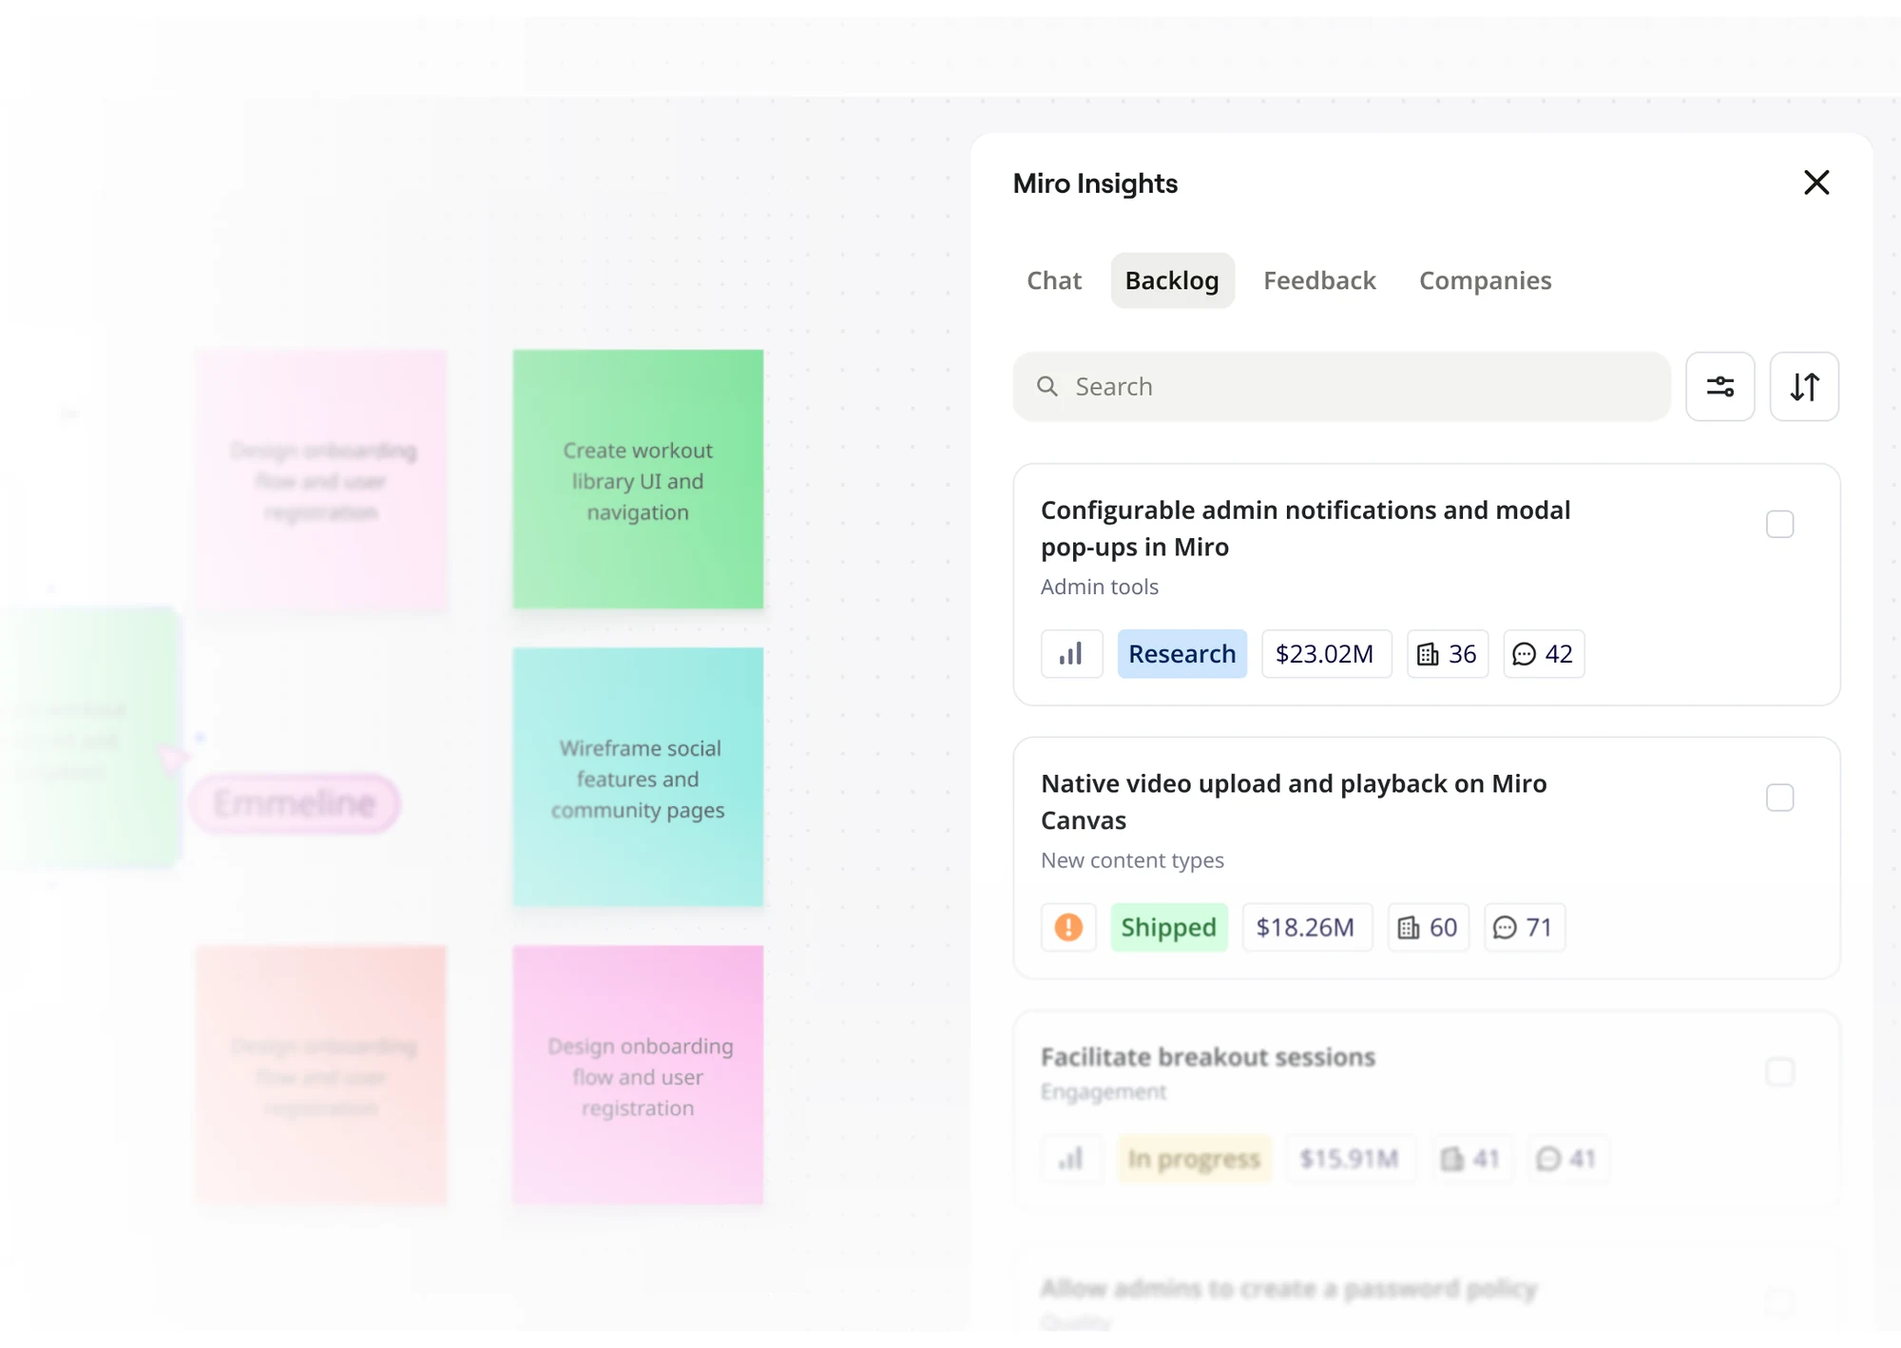
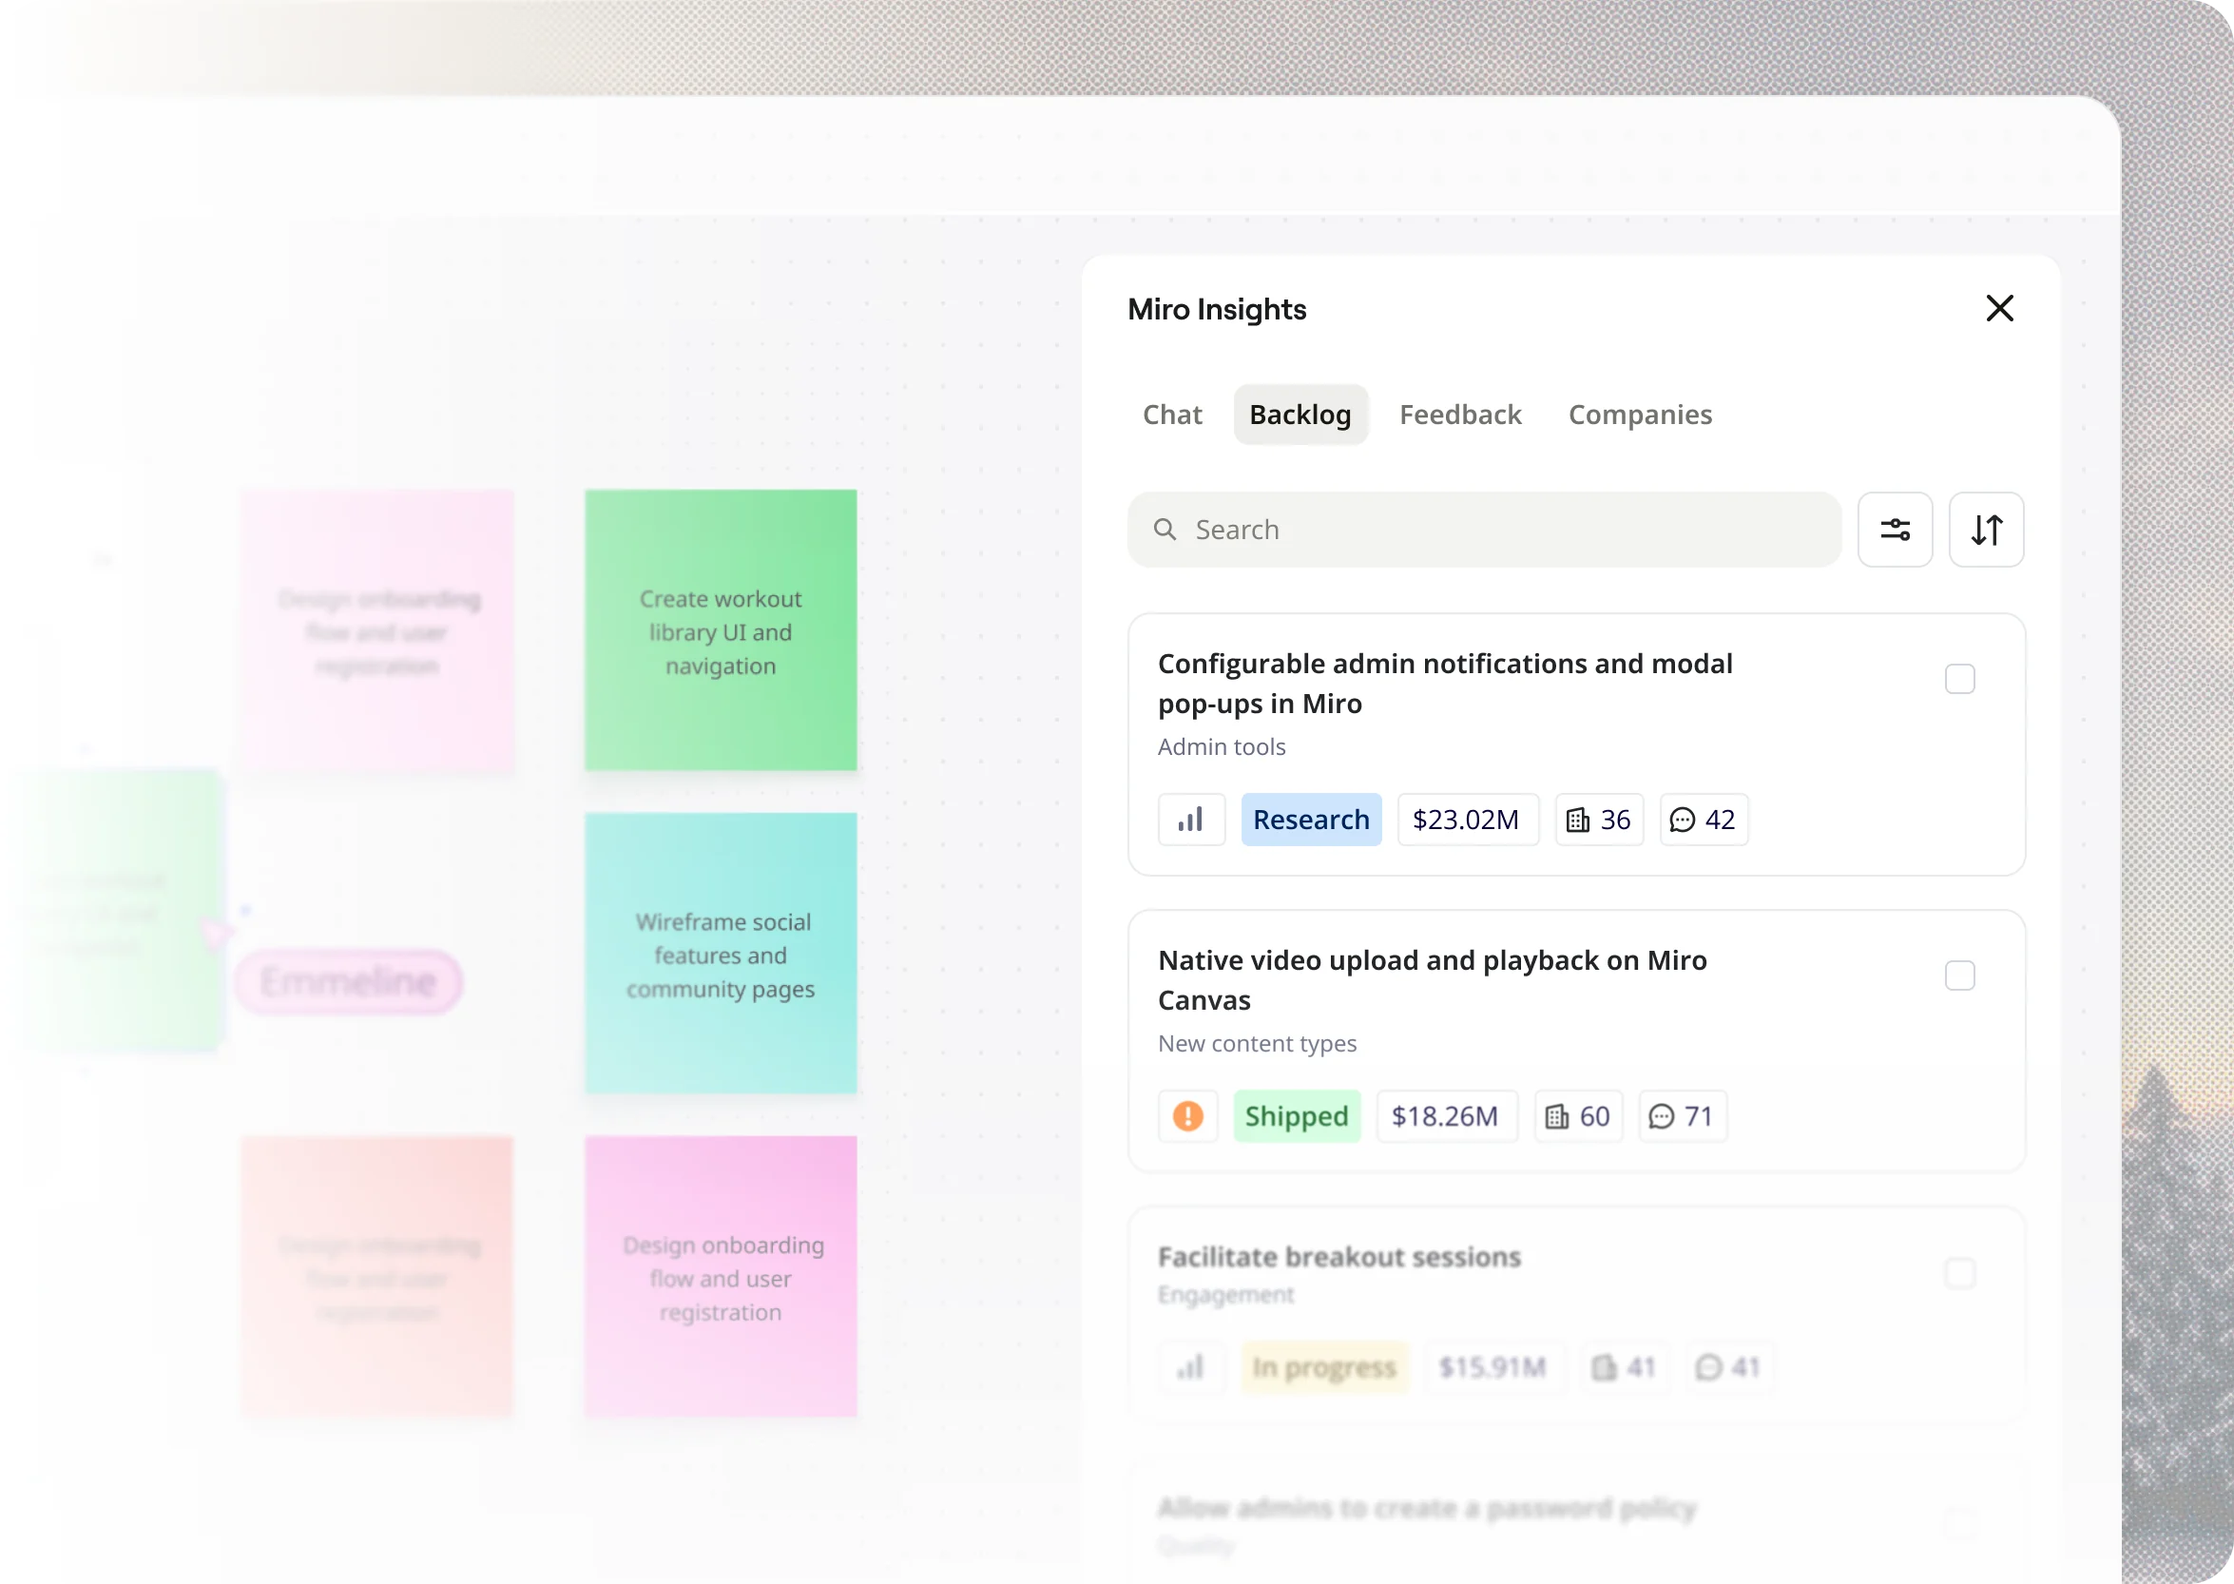
Larger project media on wide screens; synced back button and breadcrumb
- Project images and videos grow 10% from 1920px and 30% from 2000px.
- Breadcrumb (logo and title) arrives and leaves with the back button;
  hidden on small screens.
- Top buttons and back button share the dropdown rows' corner shape; in
  winter they take the Next project pill's dark glass.
- Original Canvas Insights detail image (the deck keeps the old one).
- Interests heading stays put on expand; Snake hint drops the seasonal line;
  shortcuts glyph moves bottom right.

diff --git a/css/styles.css b/css/styles.css
@@ -12034,3 +12034,107 @@ html body .pc-back.pc-back--home:active {
     width: 100%;
   }
 }
+
+/* The toolbar pills and the back button take the dropdown rows' corner
+   (12px) instead of full pill rounding. */
+html body .nav-primary .nav-icon-btn.nav-label-btn,
+html body[data-page] .pc-back.pc-back--home {
+  border-radius: 12px;
+}
+
+/* The breadcrumb arrives and leaves with the back button, on the same
+   animations and timings, so the two read as one unit between pages. */
+html.page-entering body[data-page="project"] .pc-top-company {
+  animation: pcBackBlurIn 0.5s cubic-bezier(0.22, 1, 0.36, 1) both;
+}
+
+html body[data-page="project"].page-is-leaving .pc-top-company {
+  opacity: 0;
+  filter: blur(6px);
+  transition:
+    opacity 0.3s cubic-bezier(0.22, 1, 0.36, 1),
+    filter 0.3s cubic-bezier(0.22, 1, 0.36, 1);
+}
+
+@media (hover: hover) and (min-width: 769px) {
+  html.from-home body[data-page="project"] .pc-top-company {
+    animation: pcHomeSlideIn 0.6s cubic-bezier(0.22, 1, 0.36, 1) 0.06s backwards;
+  }
+
+  html body[data-page="project"].page-is-leaving.is-leaving-home .pc-top-company {
+    opacity: 0;
+    filter: none;
+    translate: -32px 0;
+    transition:
+      opacity 0.26s ease,
+      translate 0.32s cubic-bezier(0.55, 0, 0.45, 1);
+  }
+}
+
+@media (prefers-reduced-motion: reduce) {
+  html.page-entering body[data-page="project"] .pc-top-company,
+  html.from-home body[data-page="project"] .pc-top-company { animation: none; }
+}
+
+/* Winter: the top buttons (season, Contact and back) take the "Next project"
+   pill's look: dark translucent glass, a white hairline and a soft dark
+   shadow. */
+html[data-theme="dark"] body .nav-primary .nav-icon-btn.nav-label-btn,
+html[data-theme="dark"] body[data-page="project"] .nav-primary .nav-icon-btn.nav-label-btn,
+html[data-theme="dark"] body .pc-back.pc-back--home {
+  color: var(--text);
+  background: rgba(20, 20, 22, 0.78);
+  -webkit-backdrop-filter: blur(18px) saturate(1.25);
+  backdrop-filter: blur(18px) saturate(1.25);
+  box-shadow:
+    inset 0 0 0 1px rgba(255, 255, 255, 0.12),
+    0 2px 14px rgba(0, 0, 0, 0.45);
+}
+
+@media (hover: hover) {
+  html[data-theme="dark"] body .nav-primary .nav-icon-btn.nav-label-btn:hover,
+  html[data-theme="dark"] body[data-page="project"] .nav-primary .nav-icon-btn.nav-label-btn:hover {
+    color: #f7f7f8;
+    background: rgba(32, 32, 35, 0.85);
+    -webkit-backdrop-filter: blur(18px) saturate(1.25);
+    backdrop-filter: blur(18px) saturate(1.25);
+    box-shadow:
+      inset 0 0 0 1px rgba(255, 255, 255, 0.16),
+      0 2px 14px rgba(0, 0, 0, 0.45);
+  }
+
+  /* The back button keeps its hover: grows slightly, shadow deepens. */
+  html[data-theme="dark"] body .pc-back.pc-back--home:hover {
+    color: #f7f7f8;
+    background: rgba(20, 20, 22, 0.78);
+    box-shadow:
+      inset 0 0 0 1px rgba(255, 255, 255, 0.16),
+      0 4px 20px rgba(0, 0, 0, 0.6);
+  }
+}
+
+/* Same corner shape as the dropdown rows: 12px on a 33px row is the same
+   proportion as 14px on these 38px buttons. */
+html body .nav-primary .nav-icon-btn.nav-label-btn,
+html body[data-page] .pc-back.pc-back--home {
+  border-radius: 14px;
+}
+
+/* Small screens: just the back button, no breadcrumb or logo beside it. */
+@media (max-width: 768px) {
+  html body .pc-top-company {
+    display: none;
+  }
+}
+
+/* The keyboard-shortcuts glyph sits bottom right; its panel opens up from
+   that corner. */
+html body .pc-shortcuts {
+  left: auto;
+  right: 20px;
+}
+
+html body .pc-shortcuts-panel {
+  left: auto;
+  right: 0;
+}

diff --git a/customer-insights/index.html b/customer-insights/index.html
@@ -25,7 +25,7 @@
        can't see until the scripts run; this starts it downloading straight
        away. Keep in step with images[0] in projects.js. -->
   <link rel="preload" href="/images/canvas-insights-hero.webp?v=3" as="image" fetchpriority="high">
-  <link rel="stylesheet" href="/css/styles.css?v=1484">
+  <link rel="stylesheet" href="/css/styles.css?v=1489">
 </head>
 <body data-page="project" data-project="customer-insights">
   <a class="skip-link" href="#main-content">Skip to content</a>
@@ -73,7 +73,7 @@
 
       <div class="pc-polaroids" id="pc-polaroids" hidden></div>
 
-      <img class="pc-detail animate-in" src="images/canvas-insights-detail.webp?v=6" alt="The Miro Insights panel open beside a board: a searchable backlog of requests, each with its status, revenue and comment count." width="2350" height="1666" loading="lazy" decoding="async" style="animation-delay:510ms">
+      <img class="pc-detail animate-in" src="images/canvas-insights-detail.webp?v=7" alt="The Miro Insights panel open beside a board: a searchable backlog of requests, each with its status, revenue and comment count." width="2350" height="1666" loading="lazy" decoding="async" style="animation-delay:510ms">
 
       <hr class="pc-rule animate-in" style="animation-delay:560ms" aria-hidden="true">
       <div class="pc-quote-reveal animate-on-scroll-root">
@@ -97,7 +97,7 @@
 
   <script src="/js/projects.js?v=80"></script>
   <script src="/js/ascii-text-scramble.js?v=5"></script>
-  <script src="/js/project-nav.js?v=82"></script>
+  <script src="/js/project-nav.js?v=83"></script>
   <script src="/js/main.js?v=192"></script>
   <script type="module" src="/js/canvas-figure.js?v=5"></script>
   <div class="pc-next-glow" aria-hidden="true"></div>

diff --git a/deck-300c134a96865b9f/index.html b/deck-300c134a96865b9f/index.html
@@ -17,7 +17,7 @@
   <link rel="preconnect" href="https://fonts.gstatic.com" crossorigin>
   <link rel="preload" href="/fonts/BespokeSerif-Regular.woff2" as="font" type="font/woff2" crossorigin>
   <link rel="stylesheet" href="https://fonts.googleapis.com/css2?family=Adamina&family=Caveat:wght@400&family=Inter:wght@400;500;600&display=swap">
-  <link rel="stylesheet" href="/css/styles.css?v=1484">
+  <link rel="stylesheet" href="/css/styles.css?v=1489">
   <link rel="stylesheet" href="/css/deck.css?v=252">
 </head>
 <body data-page="deck">
@@ -142,7 +142,7 @@
     <section class="slide slide--side-art slide--intro" aria-label="Slide 10">
       <h2 class="slide-title slide-title--long" style="max-width: 60.1%; font-size: 32px">How <span class="muted">&amp;</span> why we built a native customer insights app in Miro</h2>
       <p class="slide-note">Project walkthrough</p>
-      <img class="slide-side-art" src="images/canvas-insights-detail.webp?v=6" alt="The Miro Insights panel open beside a board: a searchable backlog of requests, and insight cards placed on the canvas" width="2350" height="1666" loading="lazy">
+      <img class="slide-side-art" src="images/canvas-insights-detail-deck.webp" alt="The Miro Insights panel open beside a board: a searchable backlog of requests, and insight cards placed on the canvas" width="2350" height="1666" loading="lazy">
     </section>
 
     <section class="slide slide--side-art" aria-label="Slide 11">

diff --git a/project.html b/project.html
@@ -21,7 +21,7 @@
   <link rel="preconnect" href="https://fonts.gstatic.com" crossorigin>
   <link rel="preload" href="/fonts/BespokeSerif-Regular.woff2" as="font" type="font/woff2" crossorigin>
   <link rel="stylesheet" href="https://fonts.googleapis.com/css2?family=Adamina&family=Caveat:wght@400&family=Inter:wght@400;500;600&display=swap">
-  <link rel="stylesheet" href="/css/styles.css?v=1484">
+  <link rel="stylesheet" href="/css/styles.css?v=1489">
 </head>
 <body data-page="project">
   <a class="skip-link" href="#main-content">Skip to content</a>
@@ -89,7 +89,7 @@
 
   <script src="/js/projects.js?v=80"></script>
   <script src="/js/ascii-text-scramble.js?v=5"></script>
-  <script src="/js/project-nav.js?v=82"></script>
+  <script src="/js/project-nav.js?v=83"></script>
   <script src="/js/main.js?v=192"></script>
   <!-- Progressive blur: eight masked backdrop-filter layers along the bottom edge. -->
   <div class="progressive-blur bottom-blur" aria-hidden="true">

diff --git a/ask-ai/index.html b/ask-ai/index.html
@@ -21,7 +21,7 @@
   <link rel="preconnect" href="https://fonts.gstatic.com" crossorigin>
   <link rel="preload" href="/fonts/BespokeSerif-Regular.woff2" as="font" type="font/woff2" crossorigin>
   <link rel="stylesheet" href="https://fonts.googleapis.com/css2?family=Adamina&family=Caveat:wght@400&family=Inter:wght@400;500;600&display=swap">
-  <link rel="stylesheet" href="/css/styles.css?v=1484">
+  <link rel="stylesheet" href="/css/styles.css?v=1489">
 </head>
 <body data-page="project" data-project="ask-ai">
   <a class="skip-link" href="#main-content">Skip to content</a>
@@ -99,7 +99,7 @@
 
   <script src="/js/projects.js?v=80"></script>
   <script src="/js/ascii-text-scramble.js?v=5"></script>
-  <script src="/js/project-nav.js?v=82"></script>
+  <script src="/js/project-nav.js?v=83"></script>
   <script src="/js/main.js?v=192"></script>
   <script type="module" src="/js/ask-ai-figure.js?v=9"></script>
   <div class="pc-next-glow" aria-hidden="true"></div>

diff --git a/index.html b/index.html
@@ -20,7 +20,7 @@
   <link rel="preconnect" href="https://fonts.gstatic.com" crossorigin>
   <link rel="preload" href="/fonts/BespokeSerif-Regular.woff2" as="font" type="font/woff2" crossorigin>
   <link rel="stylesheet" href="https://fonts.googleapis.com/css2?family=Adamina&family=Caveat:wght@400&family=Inter:wght@400;500;600&display=swap">
-  <link rel="stylesheet" href="css/styles.css?v=1484">
+  <link rel="stylesheet" href="css/styles.css?v=1489">
 </head>
 <body data-page="home">
   <a class="skip-link" href="#main-content">Skip to content</a>
@@ -296,7 +296,7 @@
 
   <script src="js/ascii-text-scramble.js?v=5"></script>
   <script src="js/projects.js?v=80"></script>
-  <script src="js/project-nav.js?v=82"></script>
+  <script src="js/project-nav.js?v=83"></script>
   <script src="js/main.js?v=192"></script>
   <script src="js/texture-block.js?v=47"></script>
   <script src="js/snake.js?v=45"></script>

diff --git a/onboarding/index.html b/onboarding/index.html
@@ -21,7 +21,7 @@
   <link rel="preconnect" href="https://fonts.gstatic.com" crossorigin>
   <link rel="preload" href="/fonts/BespokeSerif-Regular.woff2" as="font" type="font/woff2" crossorigin>
   <link rel="stylesheet" href="https://fonts.googleapis.com/css2?family=Adamina&family=Caveat:wght@400&family=Inter:wght@400;500;600&display=swap">
-  <link rel="stylesheet" href="/css/styles.css?v=1484">
+  <link rel="stylesheet" href="/css/styles.css?v=1489">
 </head>
 <body data-page="project" data-project="onboarding">
   <a class="skip-link" href="#main-content">Skip to content</a>
@@ -86,7 +86,7 @@
 
   <script src="/js/projects.js?v=80"></script>
   <script src="/js/ascii-text-scramble.js?v=5"></script>
-  <script src="/js/project-nav.js?v=82"></script>
+  <script src="/js/project-nav.js?v=83"></script>
   <script src="/js/main.js?v=192"></script>
   <div class="pc-next-glow" aria-hidden="true"></div>
 

diff --git a/custom-stickers/index.html b/custom-stickers/index.html
@@ -25,7 +25,7 @@
        can't see until the scripts run; this starts it downloading straight
        away. Keep in step with images[0] in projects.js. -->
   <link rel="preload" href="/images/custom-stickers-hero.webp?v=2" as="image" fetchpriority="high">
-  <link rel="stylesheet" href="/css/styles.css?v=1484">
+  <link rel="stylesheet" href="/css/styles.css?v=1489">
 </head>
 <body data-page="project" data-project="custom-stickers">
   <a class="skip-link" href="#main-content">Skip to content</a>
@@ -111,7 +111,7 @@
 
   <script src="/js/projects.js?v=80"></script>
   <script src="/js/ascii-text-scramble.js?v=5"></script>
-  <script src="/js/project-nav.js?v=82"></script>
+  <script src="/js/project-nav.js?v=83"></script>
   <script src="/js/main.js?v=192"></script>
   <script type="module" src="/js/stickers-figure.js?v=6"></script>
   <div class="pc-next-glow" aria-hidden="true"></div>

diff --git a/visualisations/index.html b/visualisations/index.html
@@ -25,7 +25,7 @@
        can't see until the scripts run; this starts it downloading straight
        away. Keep in step with images[0] in projects.js. -->
   <link rel="preload" href="/images/visualisations-hero.webp?v=5" as="image" fetchpriority="high">
-  <link rel="stylesheet" href="/css/styles.css?v=1484">
+  <link rel="stylesheet" href="/css/styles.css?v=1489">
 </head>
 <body data-page="project" data-project="visualisations">
   <a class="skip-link" href="#main-content">Skip to content</a>
@@ -97,7 +97,7 @@
 
   <script src="/js/projects.js?v=80"></script>
   <script src="/js/ascii-text-scramble.js?v=5"></script>
-  <script src="/js/project-nav.js?v=82"></script>
+  <script src="/js/project-nav.js?v=83"></script>
   <script src="/js/main.js?v=192"></script>
   <script type="module" src="/js/dashboard-figure.js?v=3"></script>
   <div class="pc-next-glow" aria-hidden="true"></div>

diff --git a/developer-tools/index.html b/developer-tools/index.html
@@ -25,7 +25,7 @@
        can't see until the scripts run; this starts it downloading straight
        away. Keep in step with images[0] in projects.js. -->
   <link rel="preload" href="/images/developer-tools-hero.webp?v=3" as="image" fetchpriority="high">
-  <link rel="stylesheet" href="/css/styles.css?v=1484">
+  <link rel="stylesheet" href="/css/styles.css?v=1489">
 </head>
 <body data-page="project" data-project="developer-tools">
   <a class="skip-link" href="#main-content">Skip to content</a>
@@ -91,7 +91,7 @@
 
   <script src="/js/projects.js?v=80"></script>
   <script src="/js/ascii-text-scramble.js?v=5"></script>
-  <script src="/js/project-nav.js?v=82"></script>
+  <script src="/js/project-nav.js?v=83"></script>
   <script src="/js/main.js?v=192"></script>
   <script type="module" src="/js/fold-figure.js?v=1"></script>
   <div class="pc-next-glow" aria-hidden="true"></div>

diff --git a/design-systems/index.html b/design-systems/index.html
@@ -25,7 +25,7 @@
        can't see until the scripts run; this starts it downloading straight
        away. Keep in step with images[0] in projects.js. -->
   <link rel="preload" href="/images/sap-fiori-hero.webp?v=2" as="image" fetchpriority="high">
-  <link rel="stylesheet" href="/css/styles.css?v=1484">
+  <link rel="stylesheet" href="/css/styles.css?v=1489">
 </head>
 <body data-page="project" data-project="design-systems">
   <a class="skip-link" href="#main-content">Skip to content</a>
@@ -85,7 +85,7 @@
 
   <script src="/js/projects.js?v=80"></script>
   <script src="/js/ascii-text-scramble.js?v=5"></script>
-  <script src="/js/project-nav.js?v=82"></script>
+  <script src="/js/project-nav.js?v=83"></script>
   <script src="/js/main.js?v=192"></script>
   <div class="pc-next-glow" aria-hidden="true"></div>
 

diff --git a/navigation/index.html b/navigation/index.html
@@ -25,7 +25,7 @@
        can't see until the scripts run; this starts it downloading straight
        away. Keep in step with images[0] in projects.js. -->
   <link rel="preload" href="/images/navigation-hero.webp?v=3" as="image" fetchpriority="high">
-  <link rel="stylesheet" href="/css/styles.css?v=1484">
+  <link rel="stylesheet" href="/css/styles.css?v=1489">
 </head>
 <body data-page="project" data-project="navigation">
   <a class="skip-link" href="#main-content">Skip to content</a>
@@ -98,7 +98,7 @@
 
   <script src="/js/projects.js?v=80"></script>
   <script src="/js/ascii-text-scramble.js?v=5"></script>
-  <script src="/js/project-nav.js?v=82"></script>
+  <script src="/js/project-nav.js?v=83"></script>
   <script src="/js/main.js?v=192"></script>
   <div class="pc-next-glow" aria-hidden="true"></div>
 
